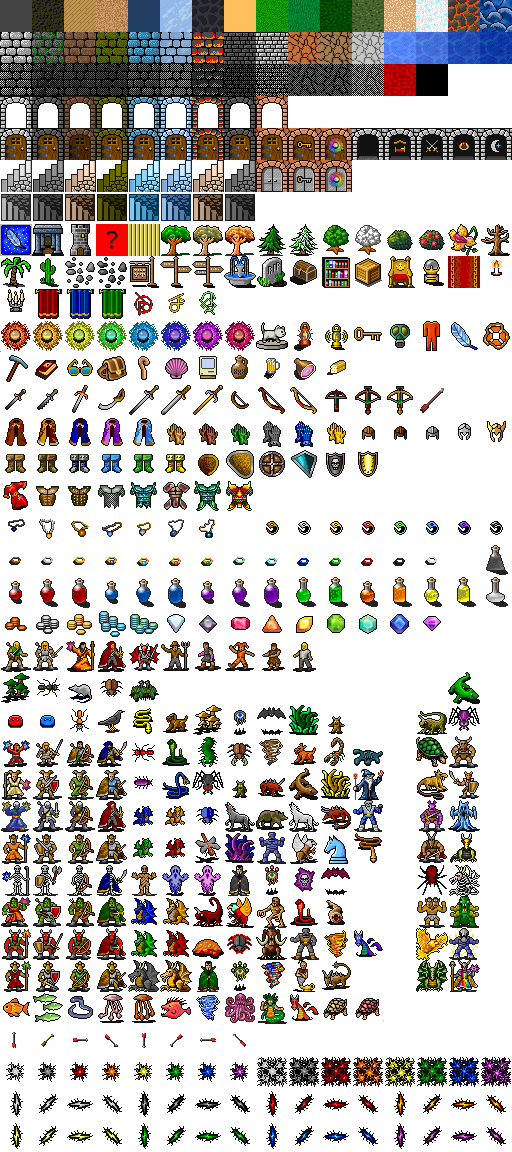
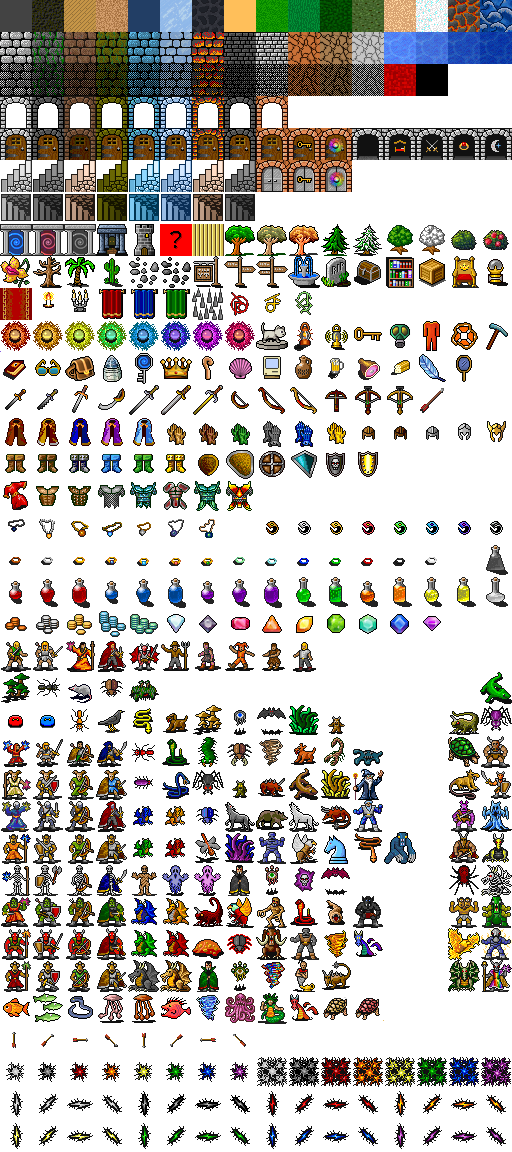
Adding new pictures for artifacts/monsters.  Updating data files.

diff --git a/src/main/java/pow/backend/GameConstants.java b/src/main/java/pow/backend/GameConstants.java
@@ -4,7 +4,7 @@ public class GameConstants {
     // --------------- world construction -----------------
 
     // Use test world (for debugging).
-    public final static boolean USE_TEST_WORLD = false;
+    public final static boolean USE_TEST_WORLD = true;
 
     // How many monsters per square there should be, on average.
     public final static double MONSTER_DENSITY = 1.0 / 100.0;

diff --git a/src/main/java/pow/backend/dungeon/DungeonItem.java b/src/main/java/pow/backend/dungeon/DungeonItem.java
@@ -102,10 +102,10 @@ public class DungeonItem implements Comparable<DungeonItem>, Serializable {
         GLASSES,
         PICKAXE,
         HEATSUIT,
-        FEATHER,
         PETSTATUE,
         BAG,
-        WALLWAND,
+        PORTALKEY,
+        XRAYSCOPE,
         MAP
     }
 
